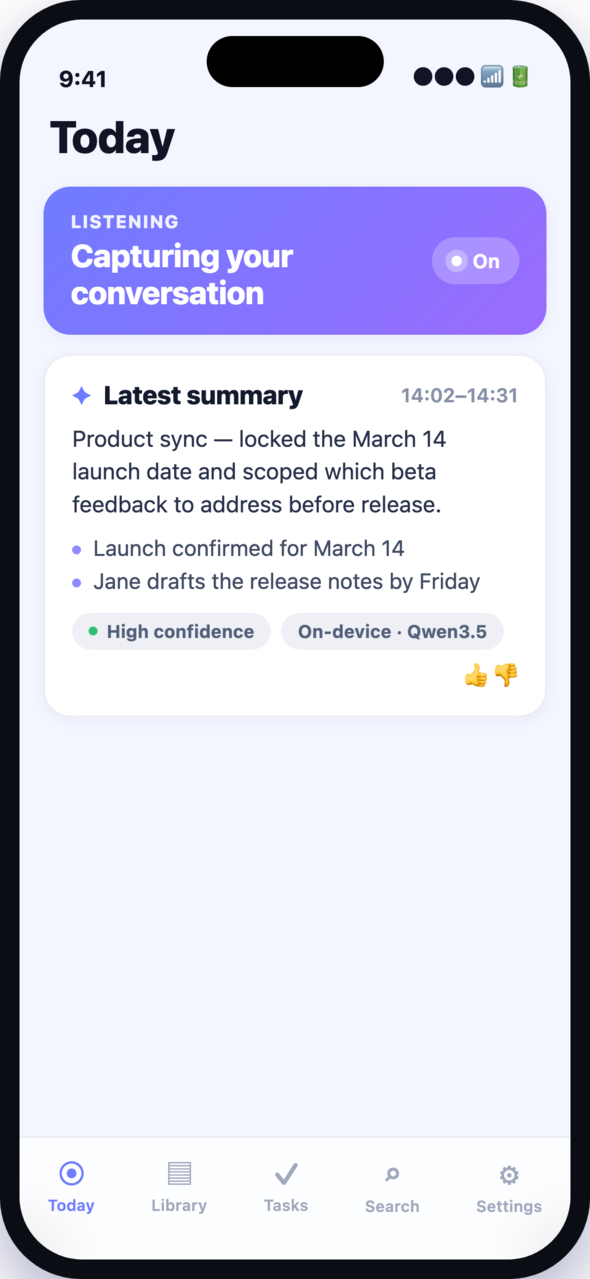
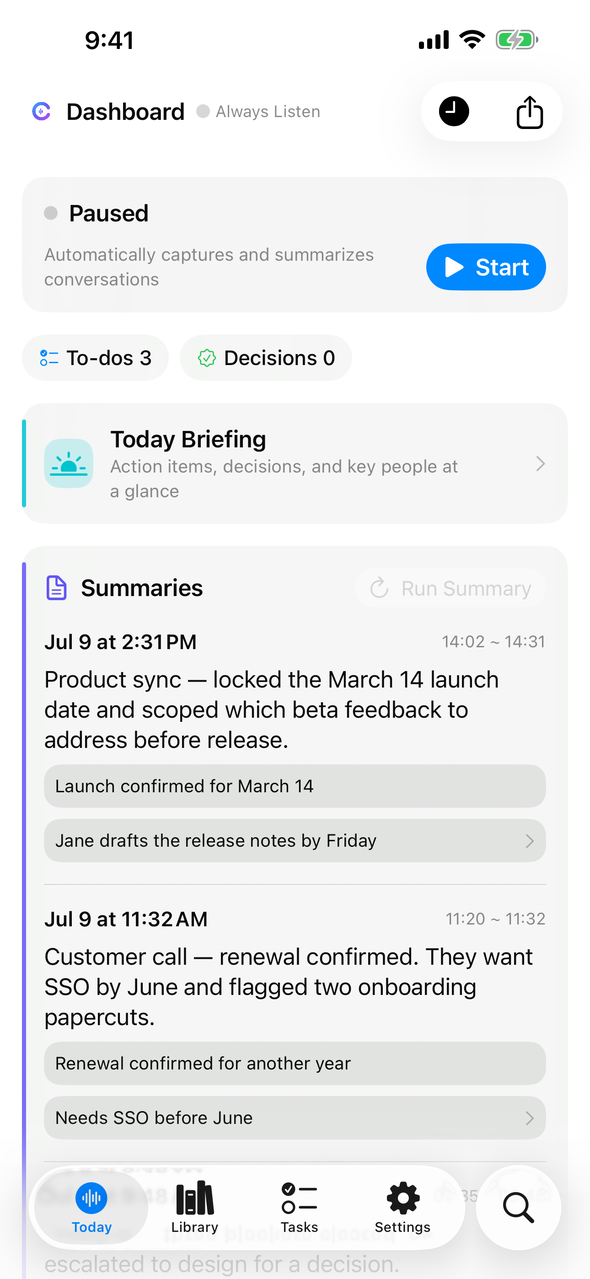
Calex: use real in-app screenshots in the gallery
Replace the hand-built UI mockups with actual iOS Simulator captures of the
seeded app (Today, Tasks, Library) at device resolution; drop the mock Mac
window shot. EN + KO galleries updated.

diff --git a/public/Calex/index.html b/public/Calex/index.html
@@ -218,7 +218,6 @@
     <img class="mid" src="shots/iphone-tasks.png" alt="Calex Tasks screen — to-dos and decisions" loading="lazy">
     <img src="shots/iphone-library.png" alt="Calex Library screen — past summaries by day" loading="lazy">
   </div>
-  <img class="macshot" src="shots/macwin.png" alt="Calex on Mac — the Today dashboard" loading="lazy">
 </section>
 
 <section class="blk wrap" id="features">

diff --git a/public/Calex/ko/index.html b/public/Calex/ko/index.html
@@ -193,7 +193,6 @@
     <img class="mid" src="../shots/iphone-tasks.png" alt="Calex 할 일 화면 — 작업과 결정" loading="lazy">
     <img src="../shots/iphone-library.png" alt="Calex 라이브러리 화면 — 날짜별 지난 요약" loading="lazy">
   </div>
-  <img class="macshot" src="../shots/macwin.png" alt="Mac에서의 Calex — 투데이 대시보드" loading="lazy">
 </section>
 
 <section class="blk wrap" id="features">